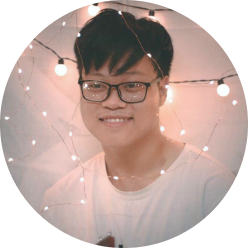
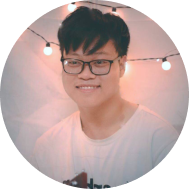
update

diff --git a/constants.js b/constants.js
@@ -2,7 +2,7 @@ var leftContents = [
   {
     catagories: "ABOUT",
     content:
-      "Software developer with 1 year plus of experience in web and mobile development. Proficient with React, GraphQL, NodeJS, and AWS Services. Interested in innovative, creative, and learning new tech stacks. Seeking a Full-Stack ( Front-End heavy ) developer position to impress existing clients and obtain new ones.",
+      "Web developer with 1 year plus of experience in web and mobile development. Proficient with React, GraphQL, NodeJS, and AWS Services (AWS CDK). Interested in learning new tech stacks, innovative and creative environment. Seeking a Full-Stack ( Front-End heavy ) developer position to impress existing clients and obtain new ones.",
   },
   {
     catagories: "EXPERIENCE",
@@ -14,19 +14,19 @@ var leftContents = [
       "Interacting with VPS, Linux, and Configuration to deploy a perfect system for a website with Nginx, Docker, and Cloudflare. Understanding of real-world project structure, architecture, and working style. In addition, working with the BA team to produce a mobile product for the company. Creating custom SDK based on the existing library for other developers with easy-to-use and faster coding purpose.",
   },
   {
-    position: "Junior Web Developer",
+    position: "Software Engineering",
     company: "FPT Software",
-    time: "October 2021 - October 2022 - 1 year",
-    jobType: "On-site",
+    time: "October 2021 - Now - 1+ year",
+    jobType: "Hybrid",
     content:
-      "Working as a Junior Full-Stack developer ( Front End heavy) with React, React Native, and other AWS stacks in Agile Scrum and Kanban environment. In terms of Front End, receiving tasks and complete base on the customer’s demand and dividing big User Stories into smaller ones for other members. Support and instruct internees and freshers in On-Job-Training terms. About the Back-End, creating NodeJS Lambda function with AppSync using AWS CDK and other AWS services.",
+      "Working as a Junior Full-Stack developer ( Front End heavy) with React, React Native, and other AWS stacks in Agile Scrum and Kanban environment. In terms of Front End, receiving tasks and complete base on the customer’s demand and dividing big User Stories into smaller ones for other members. Support and instruct internees and freshers in On-Job-Training terms. About the Back-End, creating NodeJS Lambda function with AppSync, CloudFormation, Route 53,... by using AWS CDK.",
   },
   {
     catagories: "EDUCATION",
     position: "Computer Science",
     time: "September 2018 -  June 2022",
 
-    content: "International University - HCM National University",
+    content: "International University - HCM National University ( Bachelor )",
   },
   {
     catagories: "PROJECTS",
@@ -47,16 +47,17 @@ var rightContents = [
     title: "Industry Knowledge",
     contents: [
       "UI/UX",
-      "AWS CDK",
+      "AWS",
       "Web/Mobile development",
       "Scrum Framework",
       "CI/CD",
+      "Unit/Automation Testing",
     ],
   },
   {
     title: "Tools & Technologies",
     contents: [
-      "ReactJS, Redux, NextJS, Figma, Redis, Docker, Jenkins, GitHub, GraphQL, Postgresql, MongoDB, ELK, AWS.",
+      "ReactJS, Redux, Jest, Enzyme, Web Driver IO, NextJS, Figma, Redis, Docker, Jenkins, GitHub, GraphQL, Postgresql, MongoDB, ELK, AWS CDK.",
     ],
   },
   {

diff --git a/index.html b/index.html
@@ -1,53 +1,48 @@
 <!DOCTYPE html>
 <html lang="en">
-  <head>
-    <title>Resume</title>
-    <link rel="stylesheet" href="./styles.css" />
-    <script src="./constants.js"></script>
-  </head>
-  <body>
-    <div class="line"></div>
-    <div id="container" class="container">
-      <div class="header">
+<meta name="viewport" content="width=device-width,initial-scale=1">
+
+<head>
+  <title>Resume</title>
+  <link rel="stylesheet" href="./styles.css" />
+  <script src="./constants.js"></script>
+</head>
+
+<body>
+  <div class="line"></div>
+  <div id="container" class="container">
+    <div class="header">
+      <div>
+        <h1>Tu Phan</h1>
+        <h2>Web Developer</h2>
+      </div>
+    </div>
+    <div class="header">
+      <img src="./assets/avatar.png" class="avatar" />
+    </div>
+    <div class="thin-line"></div>
+    <div class="thin-line"></div>
+    <div id="left-col" class="left-col"></div>
+    <div class="thin-line--hide"></div>
+    <div id="right-col" class="right-col">
+      <div id="right-col__content"></div>
+      <div class="right-col__content social-col">
+        <p class="right-content__tittle">Social</p>
         <div>
-          <h1>Tu Phan</h1>
-          <h2>Web Developer</h2>
-        </div>
-      </div>
-      <div class="header">
-        <img src="./assets/avatar.png" class="avatar" />
-      </div>
-      <div class="thin-line"></div>
-      <div class="thin-line"></div>
-      <div id="left-col" class="left-col"></div>
-      <div class="thin-line--hide"></div>
-      <div id="right-col" class="right-col">
-        <div id="right-col__content"></div>
-        <div class="right-col__content">
-          <p class="right-content__tittle">Social</p>
-          <div>
-            <div class="social">
-              <img class="social__icon" src="/assets/linkedin.png" />
-              <a
-                class="social__text"
-                target="_blank"
-                href="https://linkedin.com/in/tu-phan-06032000"
-                >linkedin.com/in/tu-phan-06032000</a
-              >
-            </div>
-            <div class="social">
-              <img class="social__icon" src="/assets/github.png" />
-              <a
-                class="social__text"
-                target="_blank"
-                href="https://github.com/tusphananh"
-                >github.com/tusphananh</a
-              >
-            </div>
+          <div class="social">
+            <img class="social__icon" src="/assets/linkedin.png" />
+            <a class="social__text" target="_blank"
+              href="https://linkedin.com/in/tu-phan-06032000">linkedin.com/in/tu-phan-06032000</a>
+          </div>
+          <div class="social">
+            <img class="social__icon" src="/assets/github.png" />
+            <a class="social__text" target="_blank" href="https://github.com/tusphananh">github.com/tusphananh</a>
           </div>
         </div>
       </div>
     </div>
-    <script src="./script.js"></script>
-  </body>
+  </div>
+  <script src="./script.js"></script>
+</body>
+
 </html>

diff --git a/styles.css b/styles.css
@@ -6,6 +6,11 @@ body {
   margin: 0;
   display: flex;
   flex-direction: column;
+  max-width: 1000px;
+  /* shadow left and right */
+  box-shadow: 0 0 10px 0 rgba(0, 0, 0, 0.2);
+  margin-left: auto;
+  margin-right: auto;
 }
 
 .line {
@@ -36,8 +41,8 @@ body {
 }
 
 .avatar {
-  width: 82px;
-  height: 82px;
+  width: 92px;
+  height: 92px;
   border-radius: 100%;
   border: 4px solid #dcdcdc;
 }
@@ -186,6 +191,15 @@ body {
       "thinLine thinLine"
       "leftCol leftCol"
       "thinLineDisplay thinLineDisplay"
-      "rightCol rightCol";
+      "rightCol rightCol"
+      "socialCol socialCol";
+  }
+}
+
+@media screen and (max-width: 630px) {
+  .social-col {
+    display: flex;
+    flex-direction: column;
+    grid-area: socialCol;
   }
 }
